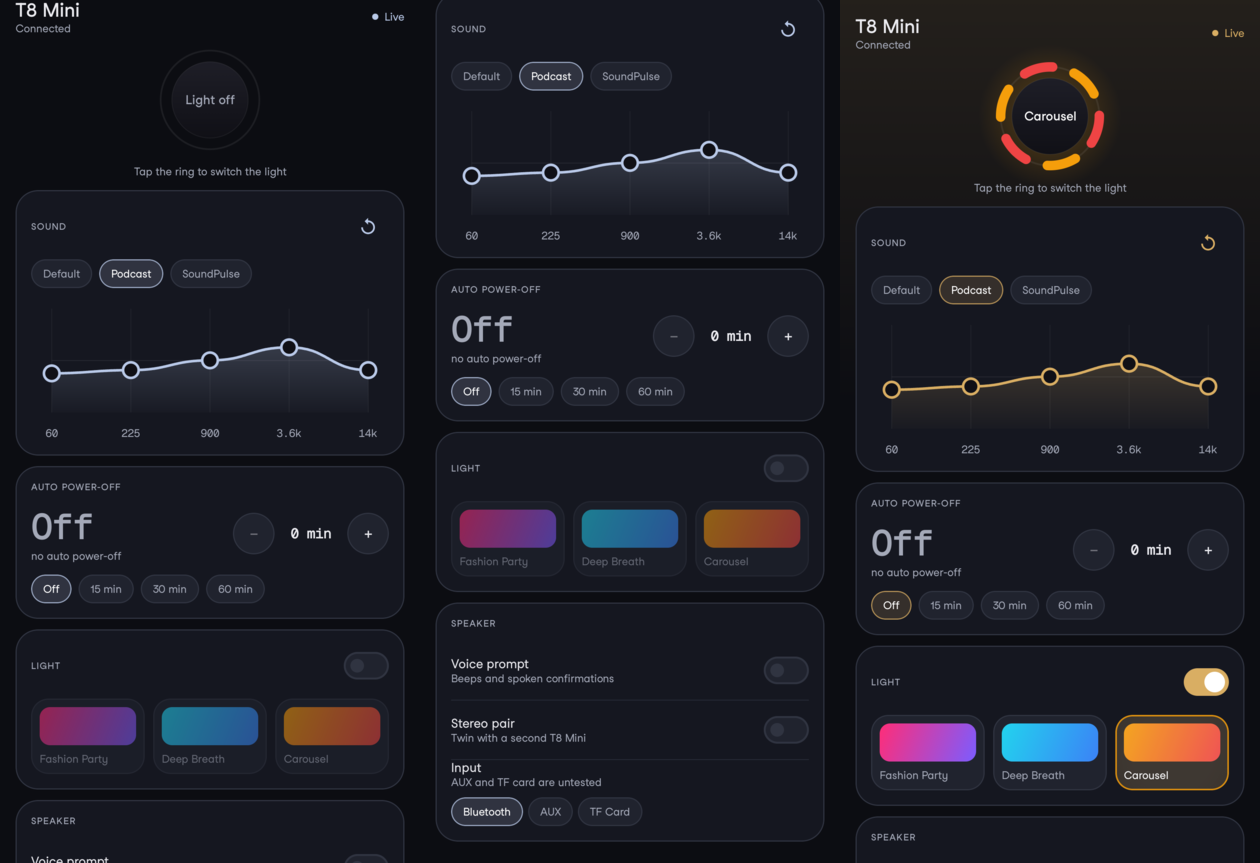
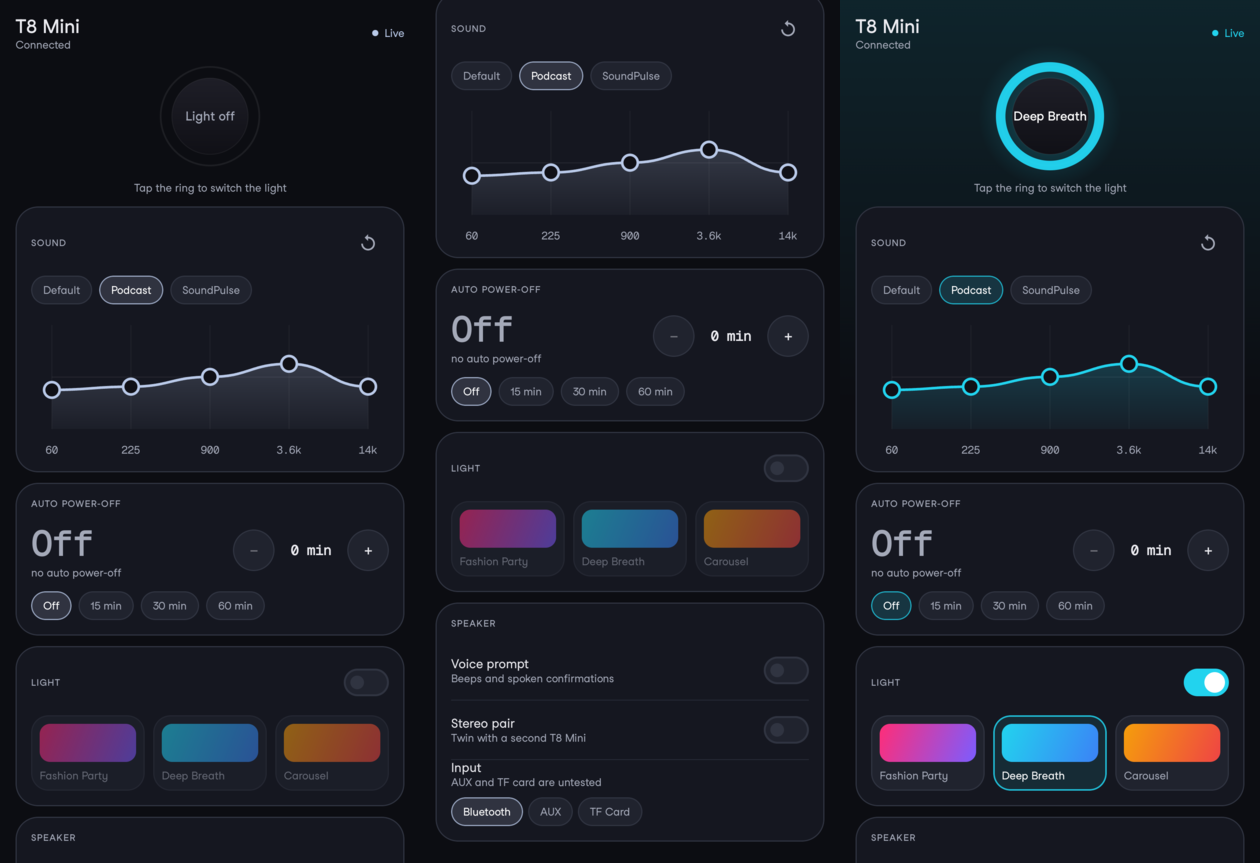
Improve equalizer drag interaction

diff --git a/app/src/main/kotlin/dev/dasun/t8mini/ui/components/EqCurve.kt b/app/src/main/kotlin/dev/dasun/t8mini/ui/components/EqCurve.kt
@@ -3,7 +3,6 @@ package dev.dasun.t8mini.ui.components
 import androidx.compose.foundation.Canvas
 import androidx.compose.foundation.gestures.awaitEachGesture
 import androidx.compose.foundation.gestures.awaitFirstDown
-import androidx.compose.foundation.gestures.drag
 import androidx.compose.runtime.Composable
 import androidx.compose.runtime.getValue
 import androidx.compose.runtime.mutableIntStateOf
@@ -19,6 +18,7 @@ import androidx.compose.ui.graphics.StrokeCap
 import androidx.compose.ui.graphics.drawscope.Stroke
 import androidx.compose.ui.hapticfeedback.HapticFeedbackType
 import androidx.compose.ui.input.pointer.pointerInput
+import androidx.compose.ui.input.pointer.PointerEventPass
 import androidx.compose.ui.platform.LocalHapticFeedback
 import androidx.compose.ui.unit.dp
 import kotlin.math.roundToInt
@@ -39,17 +39,19 @@ fun EqCurve(
     val current by rememberUpdatedState(bands)
     var dragging by remember { mutableIntStateOf(-1) }
 
-    fun valueAt(y: Float, height: Float): Int =
-        (255f * (1f - (y / height).coerceIn(0f, 1f))).roundToInt().coerceIn(0, 255)
+    fun valueAt(y: Float, height: Float, inset: Float): Int =
+        (255f * (1f - ((y - inset) / (height - 2 * inset)).coerceIn(0f, 1f))).roundToInt().coerceIn(0, 255)
 
     Canvas(
         modifier.pointerInput(Unit) {
             awaitEachGesture {
                 val down = awaitFirstDown(requireUnconsumed = false)
+                val horizontalInset = 24.dp.toPx()
+                val verticalInset = 10.dp.toPx()
                 val nodes = current.mapIndexed { index, value ->
                     Offset(
-                        x = size.width * index / 4f,
-                        y = size.height - (value / 255f) * size.height,
+                        x = horizontalInset + (size.width - 2 * horizontalInset) * index / 4f,
+                        y = verticalInset + (1f - value / 255f) * (size.height - 2 * verticalInset),
                     )
                 }
                 // Only steal the gesture when it starts on a node; anywhere else
@@ -59,19 +61,24 @@ fun EqCurve(
                 }
                 if (hit < 0) return@awaitEachGesture
 
+                down.consume()
                 dragging = hit
                 haptics.performHapticFeedback(HapticFeedbackType.LongPress)
                 var latest = current
                 var moved = false
 
-                drag(down.id) { change ->
-                    moved = true
-                    val next = latest.toMutableList()
-                    next[hit] = valueAt(change.position.y, size.height.toFloat())
-                    latest = next
-                    onChange(next)
+                do {
+                    val event = awaitPointerEvent(PointerEventPass.Initial)
+                    val change = event.changes.firstOrNull { it.id == down.id } ?: break
+                    if (change.pressed && change.position != change.previousPosition) {
+                        moved = true
+                        val next = latest.toMutableList()
+                        next[hit] = valueAt(change.position.y, size.height.toFloat(), verticalInset)
+                        latest = next
+                        onChange(next)
+                    }
                     change.consume()
-                }
+                } while (change.pressed)
 
                 dragging = -1
                 if (moved) {
@@ -83,27 +90,29 @@ fun EqCurve(
     ) {
         val width = size.width
         val height = size.height
+        val horizontalInset = 24.dp.toPx()
+        val verticalInset = 10.dp.toPx()
         val points = current.mapIndexed { index, value ->
             Offset(
-                x = width * index / 4f,
-                y = height - (value / 255f) * height,
+                x = horizontalInset + (width - 2 * horizontalInset) * index / 4f,
+                y = verticalInset + (1f - value / 255f) * (height - 2 * verticalInset),
             )
         }
 
         // grid
         for (index in 0..4) {
-            val x = width * index / 4f
+            val x = horizontalInset + (width - 2 * horizontalInset) * index / 4f
             drawLine(
                 color = Color.White.copy(alpha = 0.05f),
-                start = Offset(x, 0f),
-                end = Offset(x, height),
+                start = Offset(x, verticalInset),
+                end = Offset(x, height - verticalInset),
                 strokeWidth = 1.dp.toPx(),
             )
         }
         drawLine(
             color = Color.White.copy(alpha = 0.07f),
-            start = Offset(0f, height / 2f),
-            end = Offset(width, height / 2f),
+            start = Offset(horizontalInset, height / 2f),
+            end = Offset(width - horizontalInset, height / 2f),
             strokeWidth = 1.dp.toPx(),
         )
 
@@ -119,8 +128,8 @@ fun EqCurve(
 
         val fill = Path().apply {
             addPath(curve)
-            lineTo(width, height)
-            lineTo(0f, height)
+            lineTo(width - horizontalInset, height - verticalInset)
+            lineTo(horizontalInset, height - verticalInset)
             close()
         }
 

diff --git a/app/src/main/kotlin/dev/dasun/t8mini/ui/SpeakerScreen.kt b/app/src/main/kotlin/dev/dasun/t8mini/ui/SpeakerScreen.kt
@@ -184,7 +184,7 @@ private fun SoundCard(state: SpeakerState, accent: Color, vm: SpeakerViewModel) 
                     Icon(
                         painter = painterResource(R.drawable.ic_reset),
                         contentDescription = "Reset EQ",
-                        tint = if (state.link == LinkState.Ready) accent else TextDim,
+                        tint = TextDim,
                     )
                 }
             }
@@ -224,8 +224,7 @@ private fun SoundCard(state: SpeakerState, accent: Color, vm: SpeakerViewModel) 
             onCommit = vm::commitBands,
             modifier = Modifier
                 .fillMaxWidth()
-                .padding(horizontal = 24.dp, vertical = 10.dp)
-                .height(120.dp),
+                .height(140.dp),
         )
 
         Spacer(Modifier.height(6.dp))
